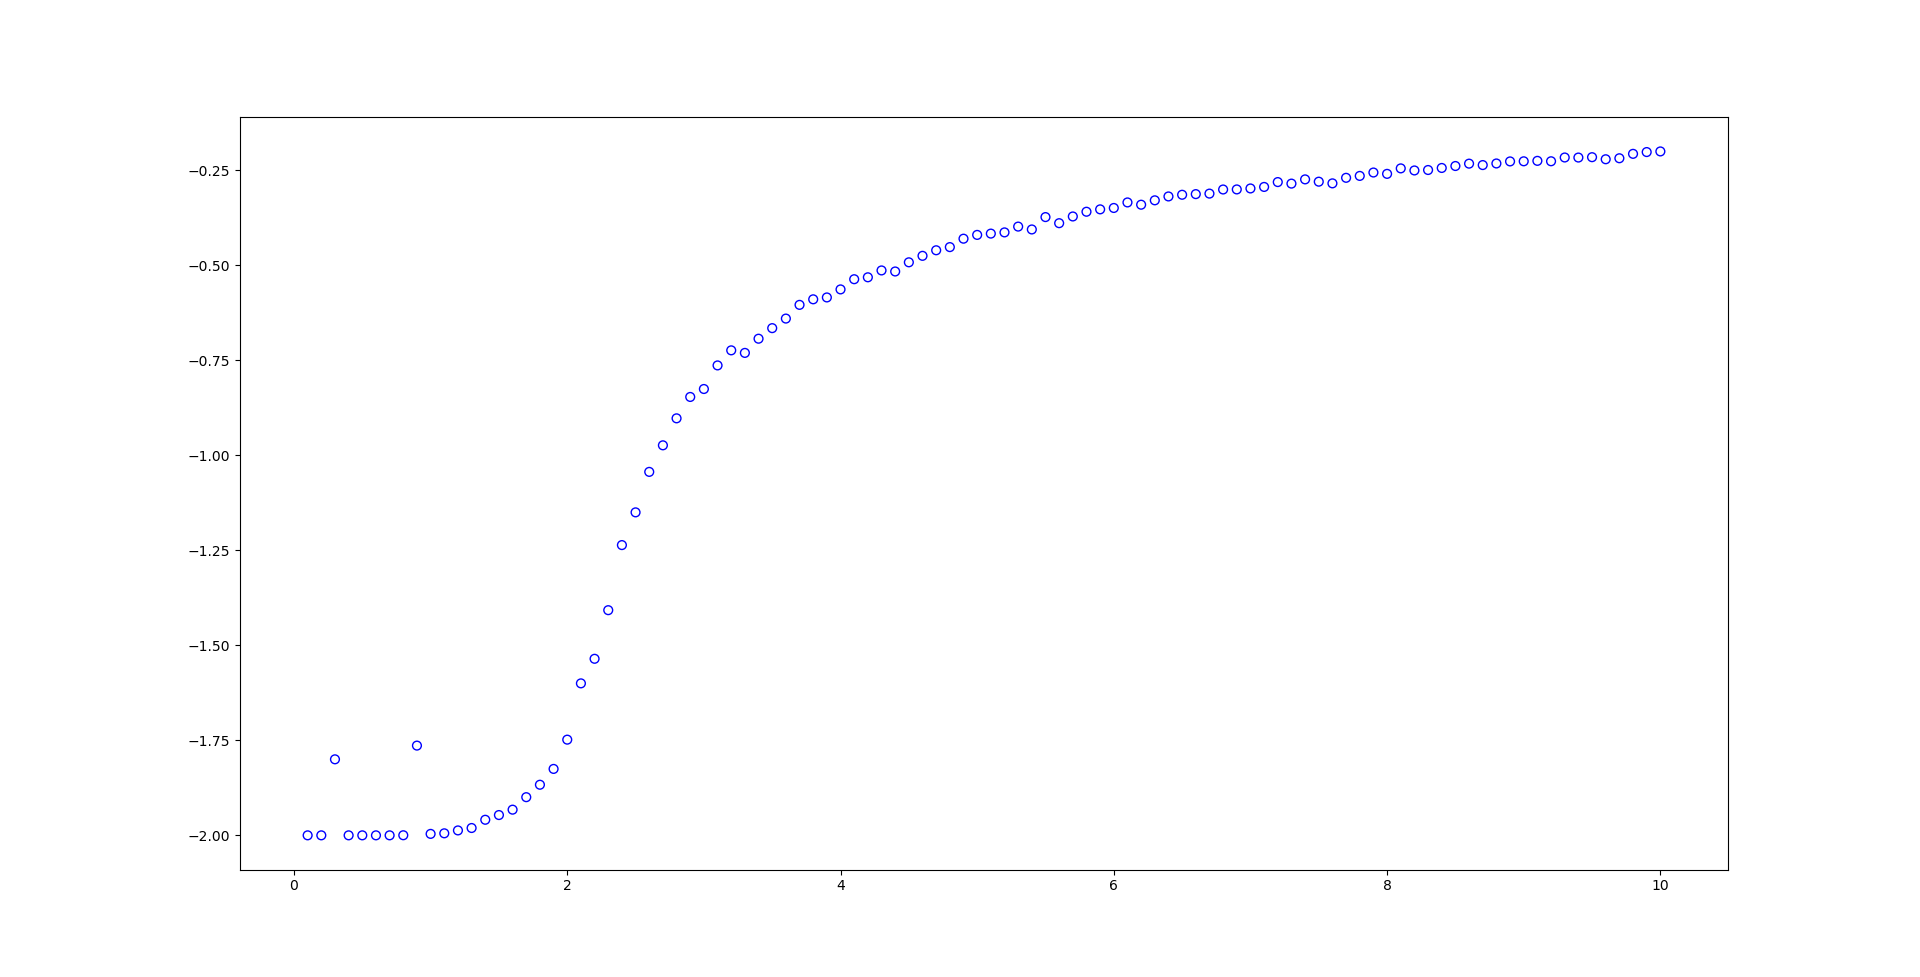
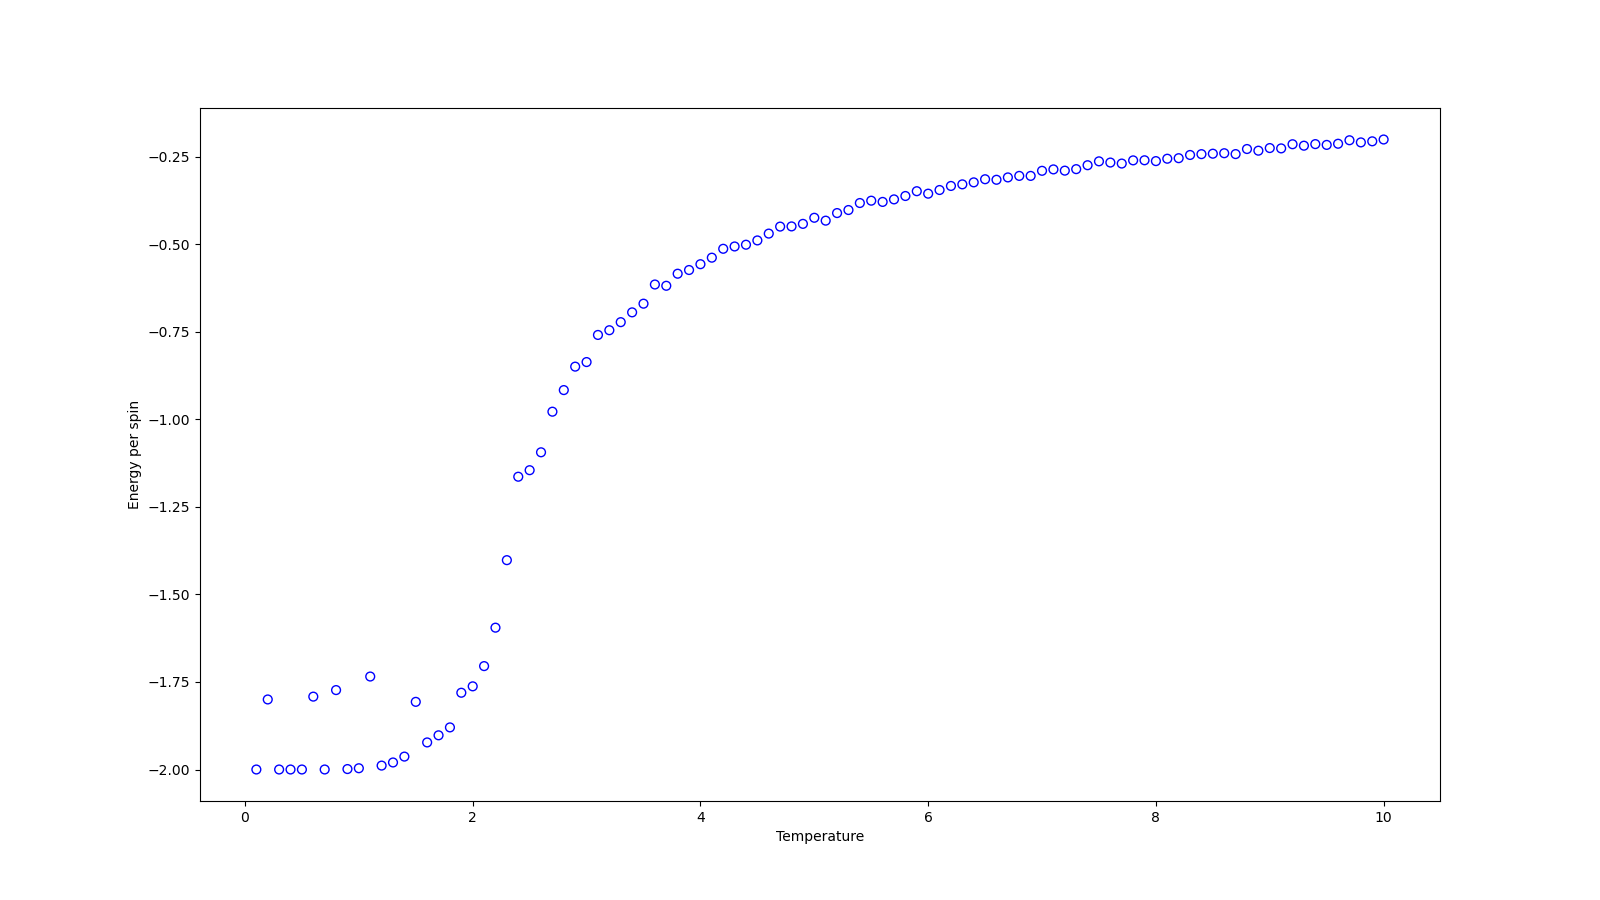
Replotted graphs

diff --git a/main.py b/main.py
@@ -7,6 +7,7 @@ import matplotlib.pyplot as plt
 from multiprocessing import Pool
 import seaborn as sns
 import matplotlib.animation as animation
+import tqdm
 
 
 def en(t: float):
@@ -27,30 +28,33 @@ def en(t: float):
         m = float(b[2])
         res.append([t, m])
         del a
-    print(t)
+    # print(t)
     return res
 
 
 def energy_map(threads=8):
     """Plots energy per spin vs temperature
 
-    Measures and plots energy per spin for a 20x20 lattice from 0.1 to 10.1 degrees with a step of 0.1 degrees
+    Measures and plots energy per spin for a 20x20 lattice from 0.1 to 10.1 degrees with a step of 0.1 degrees,
+    each temperature is equilibrated for 1e5 steps and averaged for 1e5 steps. Resulting graph is saved to
+    results/energy.png
 
     Args:
         threads: number of threads to use in the computation
     """
     with Pool(threads) as p:
-        a = p.map(en, np.arange(0.1, 10.1, 0.1))
+        a = list(tqdm.tqdm(p.imap(en, np.arange(0.1, 10.1, 0.1)), total=100))
     t = []
     e = []
     for res in a:
         for r in res:
             t.append(r[0])
             e.append(r[1])
+    fig = plt.figure(figsize=(16, 9))
     plt.scatter(t, e, s=40, facecolor="none", edgecolors="blue")
     plt.xlabel("Temperature")
     plt.ylabel("Energy per spin")
-    plt.savefig("results/heat.png")
+    plt.savefig("results/energy.png")
     plt.show()
 
 
@@ -71,14 +75,16 @@ def c(t: float):
         v, dv = mc.sim(a, 100000, t, ave=True, freq=0)
         res.append([t, v[1], v[0]])
     del a
-    print(t)
+    # print(t)
     return res
 
 
 def heat_map(threads=8):
     """Plots heat capacity vs temperature
 
-    Measures and plots lattice heat capacity for a 16x16 lattice from 1.0 to 4.0 degrees with a step of 0.05
+    Measures and plots lattice heat capacity for a 16x16 lattice from 1.0 to 4.0 degrees with a step of 0.05. Each
+    temperature is simulated 10 times, equilibrating for 5e4 steps and averaging for 1e5 steps. Resulting graph is
+    saved to results/heat.png
 
     Args:
         threads: number of threads to use in the computation
@@ -87,7 +93,7 @@ def heat_map(threads=8):
     e2 = []
     e = []
     with Pool(threads) as p:
-        a = p.map(c, np.arange(1.0, 4.0, 0.05))
+        a = list(tqdm.tqdm(p.imap(c, np.arange(1.0, 4.0, 0.05)), total=60))
     for aa in a:
         for v in aa:
             tt.append(v[0])
@@ -97,6 +103,7 @@ def heat_map(threads=8):
     e2 = np.array(e2)
     e = np.array(e)
     ch = (e2 - e ** 2) / tt ** 2
+    fig = plt.figure(figsize=(16, 9))
     plt.scatter(tt, ch, s=40, facecolor="none", edgecolors="blue")
     plt.xlabel("Temperature")
     plt.ylabel("Heat capacity")
@@ -122,26 +129,30 @@ def test(t):
         m = float(b[3])
         res.append([t, m])
         del a
-    print(t)
+    # print(t)
     return res
 
 
 def magnetization_map(threads=8):
     """Plots average lattice magnetization vs temperature
 
-    Measures and plots lattice magnetisation for a 20x20 lattice from 0.1 to 10.1 degrees with a step of 0.1
+    Measures and plots lattice magnetisation for a 20x20 lattice from 0.1 to 10.1 degrees with a step of 0.1, simulating
+    each temperature 20 times. Equilibrates the lattice for 1e5 steps, then averages for 1e5 steps. Result is saved to
+    results/magnetization.png
 
     Args:
         threads: number of threads to use in the computation
     """
     with Pool(threads) as p:
-        a = p.map(test, np.arange(0.1, 10.1, 0.1))
+        a = list(tqdm.tqdm(p.imap(test, np.arange(0.1, 10.1, 0.1)), total=100))
     t = []
     m = []
     for res in a:
         for r in res:
             t.append(r[0])
             m.append(r[1])
+
+    fig = plt.figure(figsize=(16, 9))
     plt.scatter(t, m, s=40, facecolor="none", edgecolors="blue")
     plt.xlabel("Temperature")
     plt.ylabel("Average magnetization")
@@ -171,7 +182,7 @@ def coolplot(n, t):
 
 
 def anime(n, t, steps=int(1e5), freq=1):
-    """Creates an animation of latiice relaxation
+    """Creates an animation of lattice relaxation
 
     Simulates a lattice with given parameters, animates the relaxation and saves the result to results/animation.mp4
 
@@ -195,8 +206,8 @@ def anime(n, t, steps=int(1e5), freq=1):
 
 
 if __name__ == "__main__":
-    # magnetization_map()
-    coolplot(50, 0.1)
+    # magnetization_map(threads=4)
+    # coolplot(50, 0.1)
     # anime(100, 0.1, freq=1000, steps=int(2e6))
-    # heat_map()
+    heat_map()
     energy_map()

diff --git a/mc.py b/mc.py
@@ -47,7 +47,7 @@ def sim(model: ising.Lattice, nsteps: int, t: float, freq: int = 10000, ave: boo
         if ave is True: tuple of means and stds of observables - (means: ndarray, stds: ndarray)
     """
     random.seed()
-    print(nsteps)
+    #print(nsteps)
     if freq:
         print("Step " + model.observables)
     if ave:
